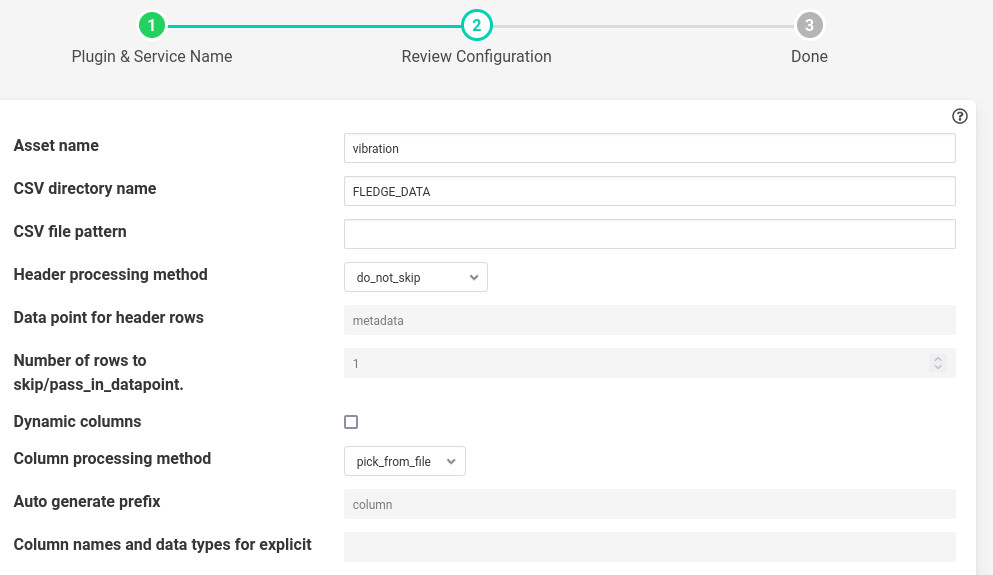
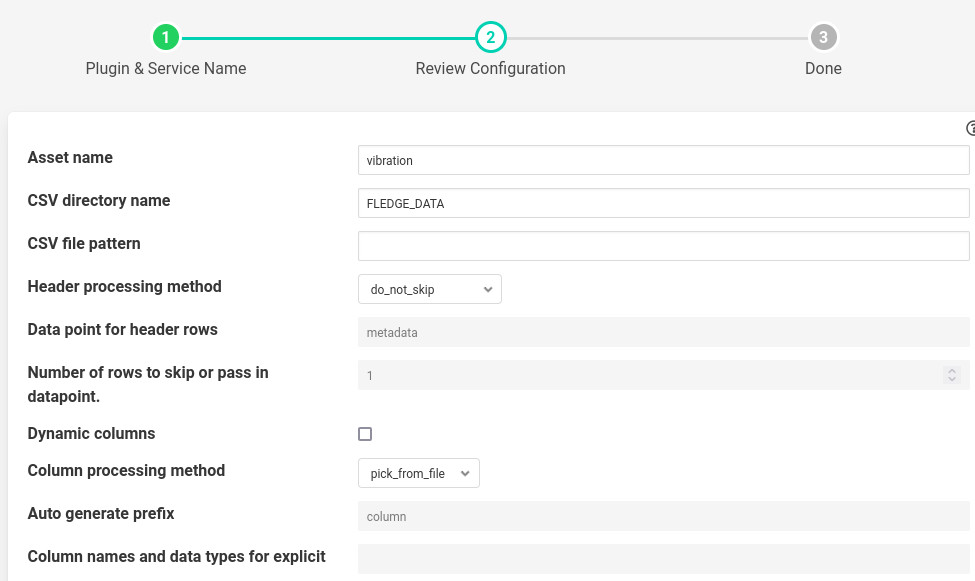
adjusted screenshot and few other corrections

diff --git a/python/fledge/plugins/south/csvplayback/csvplayback.py b/python/fledge/plugins/south/csvplayback/csvplayback.py
@@ -101,7 +101,7 @@ _DEFAULT_CONFIG = {
         'description': 'No. of rows to skip or combine to single value.',
         'type': 'integer',
         'default': '1',
-        'displayName': 'Number of rows to skip/pass_in_datapoint.',
+        'displayName': 'Number of rows to skip or pass in datapoint.',
         'validity': "headerMethod == \"skip_rows\" || headerMethod == \"pass_in_datapoint\"",
         'minimum': '1',
         'order': '6'

diff --git a/docs/index.rst b/docs/index.rst
@@ -171,13 +171,13 @@ The plugin can also play a file that has variable columns in every line.
 Execution
 ---------
 
-Assuming you have a csv file named vibration.csv inside FLEDGE_ROOT/data/csv_data (Can give a pattern like vib. The plugin will search for all the files starting with vib and therefore find out the file named vibration.csv). The csv file has fixed number of columns per row.  Also assuming the column names are present in the first line. The plugin will rename the file with suffix .tmp after playing. Here is the curl command for that.
+Assuming you have a csv file named vibration.csv inside FLEDGE_ROOT/data/csv_data (Can give a pattern like vib. The plugin will search for all the files starting with vib and therefore find out the file named vibration.csv). The csv file has fixed number of columns per row.  Also assuming the column names are present in the first line. The plugin will rename the file with suffix .tmp after playing. Here is the cURL command for that.
 
     .. code-block:: console
 
        res=$(curl -sX POST http://localhost:8081/fledge/service -d  @- << EOF | jq '.'
        {
-        "name":"My_south",
+        "name":"csv_player",
         "type":"south",
         "plugin":"csvplayback",
         "enabled":false,
@@ -204,9 +204,10 @@ Poll Vs Async
 -------------
 
 The plugin also works in async mode. Though the default mode is poll.
-The async mode is faster but suffers with memory growth when sample rate is too high for the machine configuration
+The async mode is faster but suffers with memory growth when sample rate is too high for the machine configuration.
 
-Use the following sed operation for async and start the plugin again. (The second sed operation can be used if you want to revert back to poll mode. Restart the plugin in that case also.)
+Use the following sed operation for async and start the plugin again. The second sed operation, in similar way, can be used if you want to revert back to poll mode. Restart for the plugin service is required.
+
 
 .. code-block:: console
 
@@ -221,10 +222,8 @@ Use the following sed operation for async and start the plugin again. (The secon
 
 
 
-Behaviour Under various mode
-----------------------------
-
-The behaviour of plugin under various modes.
+Behaviour Under various modes
+-----------------------------
 
 .. list-table::
    **Behaviour of CSV playback plugin**
@@ -254,7 +253,7 @@ For using poll mode in continuous setting increase the readingPerSec category to
 .. code-block:: console
 
       sampling_rate=8000
-      curl -sX PUT http://localhost:8081/fledge/category/My_southAdvanced -d '{"bufferThreshold":"'"$sampling_rate"'","readingsPerSec":"'"$sampling_rate"'"}' |jq
+      curl -sX PUT http://localhost:8081/fledge/category/csv_playerAdvanced -d '{"bufferThreshold":"'"$sampling_rate"'","readingsPerSec":"'"$sampling_rate"'"}' |jq
 
 It is advisable to increase the buffer threshold to atleast half the sample rate for good performance. (As done in above command)
 
